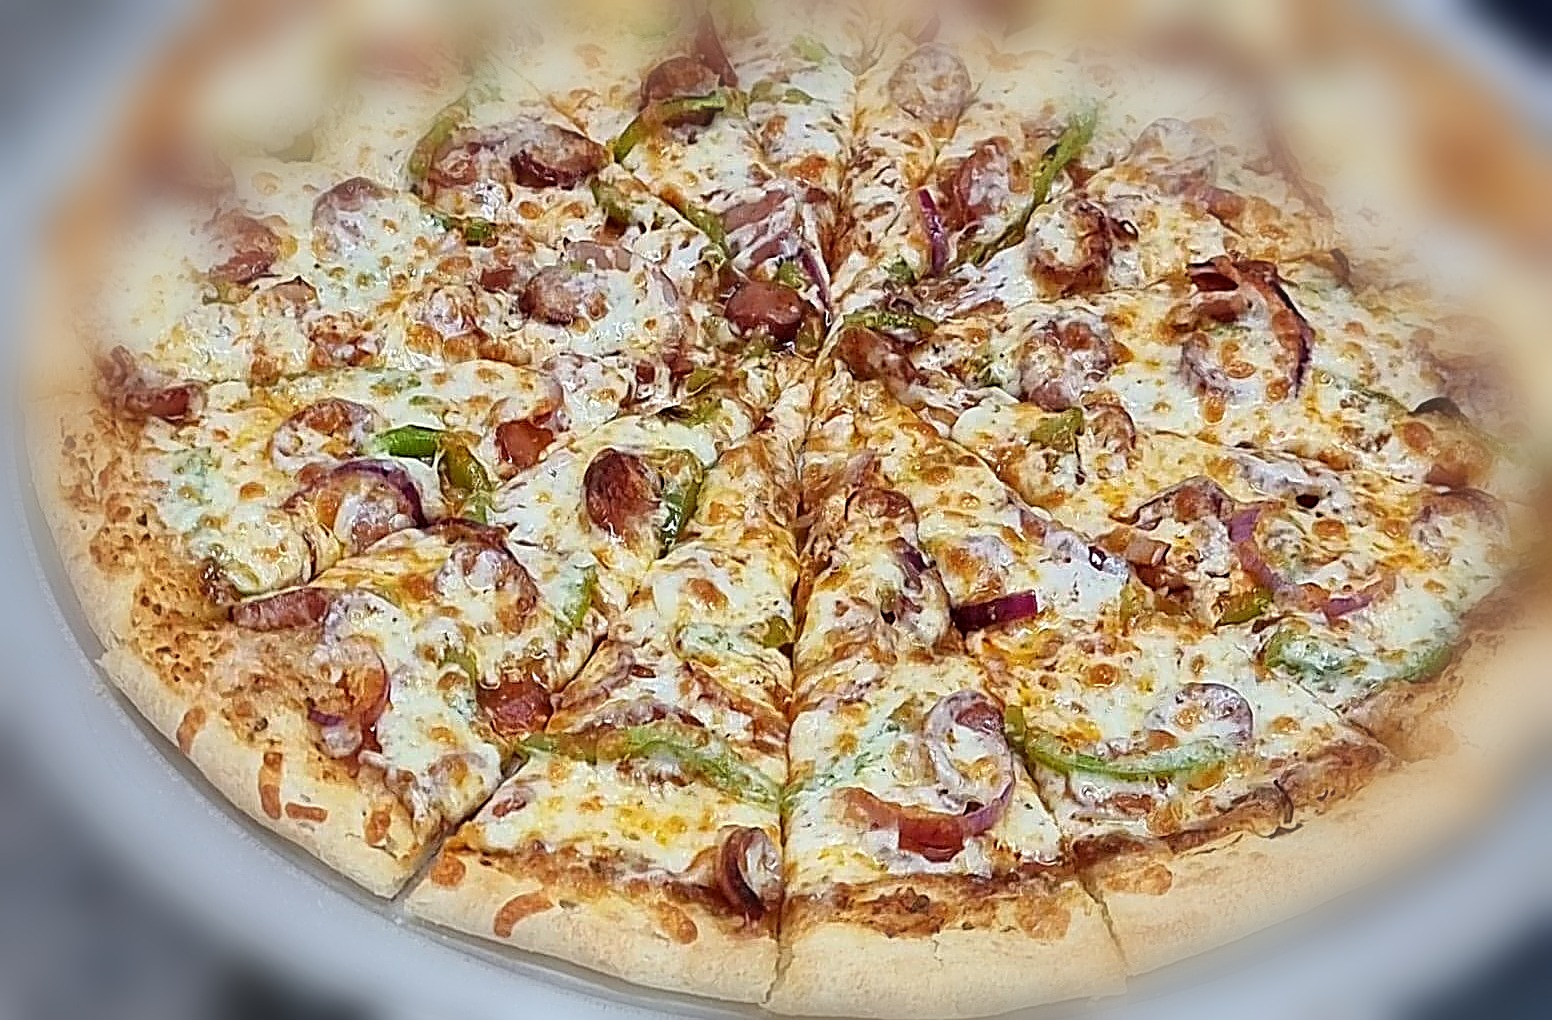
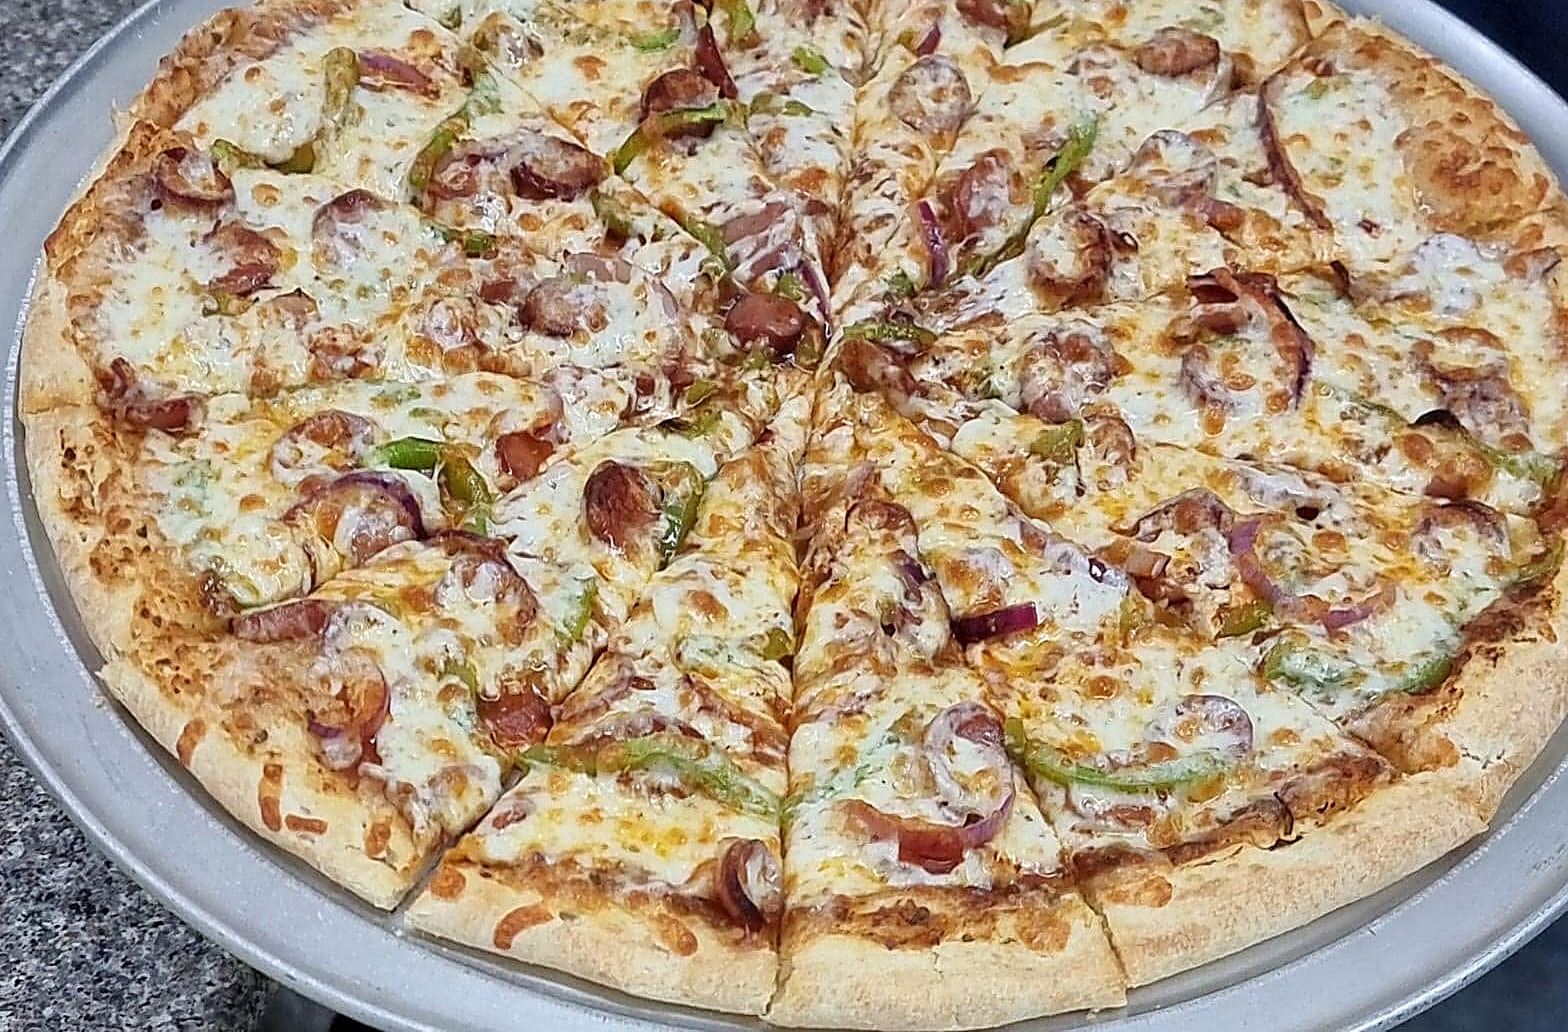
Replace edge-blur with light cropping on real photos
Blur was making pizza toppings look unclear; switched to crop + sharpen
instead so the food stays crisp while cardboard/oven backgrounds still
get trimmed out. Also swapped in a real Italian pizza photo (was stock),
discarded a mistakenly-included competitor photo for the steak pizza,
and removed "in the city" from the hero heading.

diff --git a/index.html b/index.html
@@ -64,7 +64,7 @@
     <div class="hero-overlay"></div>
     <div class="container hero-inner">
       <span class="hero-eyebrow">مطعم بيتزا · توصيل سريع</span>
-      <h1>Nader Pizza<br>ألذ بيتزا وساندويتشات في المدينة</h1>
+      <h1>Nader Pizza<br>ألذ بيتزا وساندويتشات</h1>
       <p>عجينة تُحضَّر طازجة يوميًا، مكونات مختارة بعناية، وشوي على الطريقة التقليدية. اطلب أونلاين واستلم أوردرك سخنًا.</p>
       <div class="hero-buttons">
         <a href="#menu" class="btn btn-primary">اطلب الآن</a>
